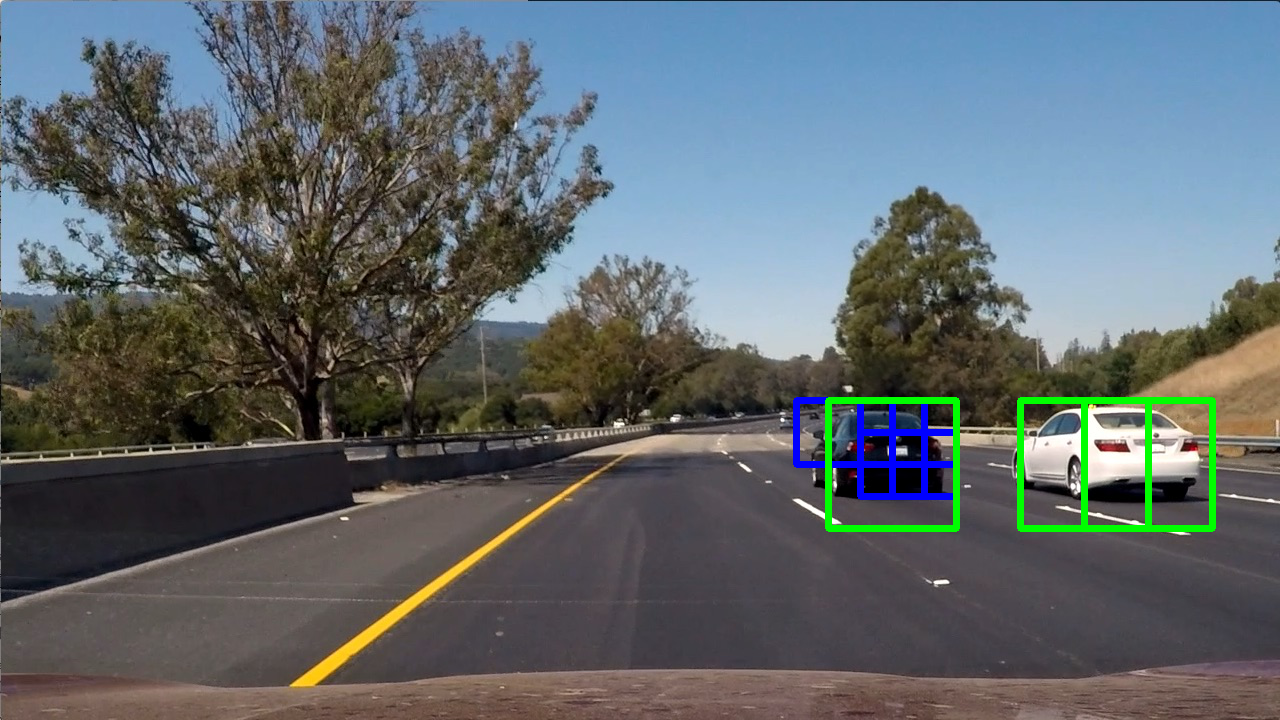
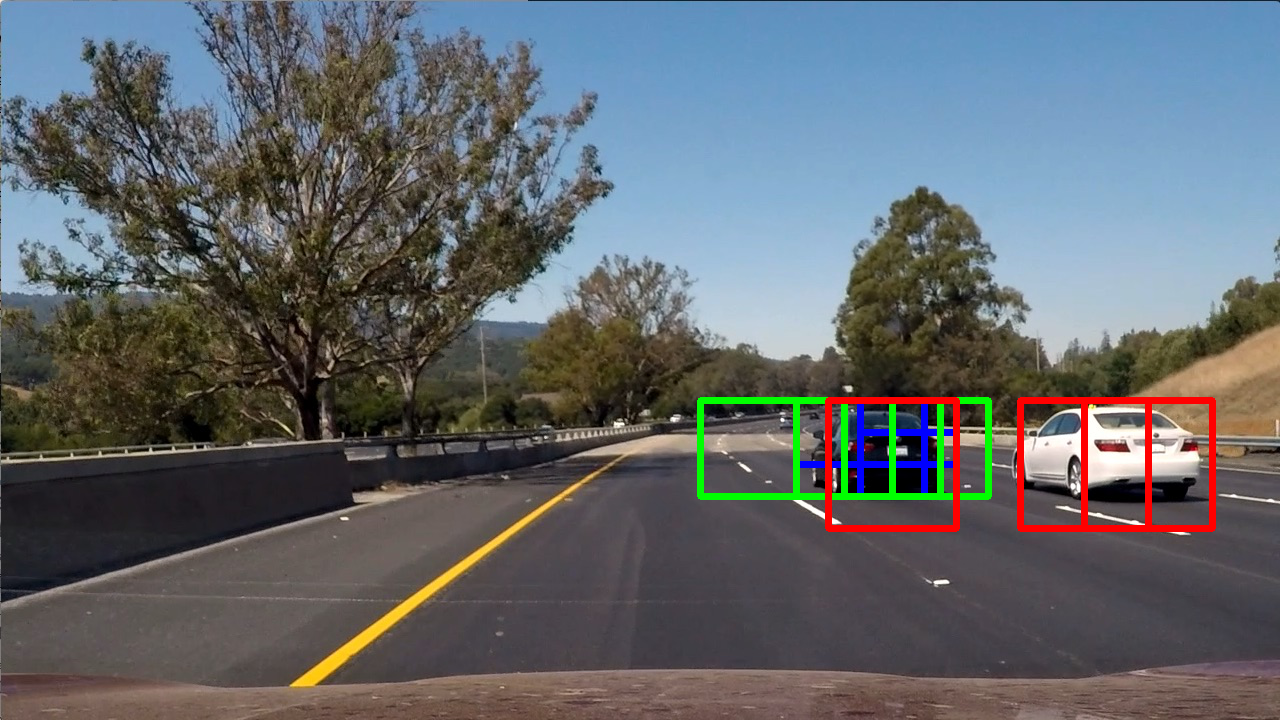
Flipping images and feature extraction problem

Changed region(s): [[0.5312, 0.55, 0.9688, 0.7639]]

diff --git a/Py/Proj5_VehicleDetection/Vehicle_Detection_Application/engine.py b/Py/Proj5_VehicleDetection/Vehicle_Detection_Application/engine.py
@@ -1,5 +1,15 @@
 from CameraCaliberator import *
 from trainSVMFromData import *
+import pickle
+from VDetectApp.FeatureExtractor.FeatureExtractor import FeatureExtractor
+from VDetectApp.SlidingWindowConfigurator.SlidingWindowConfigurator import SlidingWindowConfigurator
+import cv2
+import os, sys
+import matplotlib.image as mpimg
+import matplotlib.pyplot as plt
+from scipy.ndimage.measurements import label
+
+
 def add_heat(heatmap, windows):
     # Iterate through list of bboxes
     for window in windows:
@@ -40,6 +50,7 @@ def draw_boxes(img, bboxes, color=(0,0,255), thick=6):
 def detect_vehicle(isImage, file, root_folder, output_folder):
 	file_parts = file.split(".")
 	featureExtractor = FeatureExtractor(isImage, file, root_folder)
+	featureExtractor.image = featureExtractor.image[:,:,:3]
 	mpimg.imsave(output_folder + "/"+ file_parts[0] + "_original.png", featureExtractor.image);
 	
 	#featureExtractor.setImage(cc.undistort(featureExtractor.image))
@@ -63,12 +74,12 @@ def detect_vehicle(isImage, file, root_folder, output_folder):
 			windows.extend(tempWindows)
 			
 		on_windows = [];
-		#print(windows)
+		count = 0
 		for window in windows:
 			mpimg.imsave(output_folder + "/"+ file_parts[0] + "_before_resize.png", featureExtractor.image);
 			test_image = cv2.resize(featureExtractor.image[window[0][1]:window[1][1], window[0][0]:window[1][0]], (64, 64))
 			#print(test_image.shape)
-			mpimg.imsave(output_folder + "/"+ file_parts[0] + "_window.png", test_image);
+			mpimg.imsave(output_folder + "/"+ file_parts[0] + "_"+ str(index) + ".png", test_image);
 			
 			subFeatures = computePerImageFeatures(True, test_image, root_folder=None, y_start=None, y_stop=None, color_space='RGB', scale=1, orientations=9, pixels_per_cell=8, cells_per_block=2, feature_vec=False, concatenate_features=True)
 		
@@ -78,10 +89,12 @@ def detect_vehicle(isImage, file, root_folder, output_folder):
 				prediction = clf.predict(test_features);
 				if prediction == 1:
 					on_windows.append(window)	
+				print(count, window[0][1], window[1][1], window[0][0], window[1][0], prediction)
 			else:
 				print(scalar.mean_.shape[0])
 				print(subFeatures.shape[0])
-		
+			count+=1
+			
 		copied_image = draw_boxes(copied_image, on_windows, box_colors[index], thick=6)
 		all_windows.extend(on_windows)
 		print(len(all_windows))
@@ -134,6 +147,7 @@ def process_image(image):
 			test_image = cv2.resize(featureExtractor.image[window[0][1]:window[1][1], window[0][0]:window[1][0]], (64, 64))
 			
 			subFeatures = computePerImageFeatures(True, test_image, root_folder=None, y_start=None, y_stop=None, color_space='HLS', scale=1, orientations=9, pixels_per_cell=8, cells_per_block=2, feature_vec=False, concatenate_features=True)
+			subFeatures = subFeatures.astype('float64')
 		
 			if scalar.mean_.shape[0] == subFeatures.shape[0]:
 				test_features = scalar.transform(np.array(subFeatures).reshape(1,-1))
@@ -161,8 +175,14 @@ def process_image(image):
 	mpimg.imsave("sample_final_box.png" , another_copy_image);
 	return another_copy_image
 if __name__ == "__main__":
-	#pickle_file_name = trainSVMFromData();
-	import pickle
+	pickle_file_name = []
+	input_args = sys.argv
+	print(input_args)
+	if input_args[1] == "1": 
+		if input_args[2] == "1":
+			pickle_file_name = trainSVMFromData(True);
+		else:
+			pickle_file_name = trainSVMFromData(False);
 	pickle_file_name = "car_svc.p"
 	data = pickle.load(open(pickle_file_name, "rb"));
 	clf = data['Classifier'];
@@ -174,21 +194,12 @@ if __name__ == "__main__":
 	
 	x_start_stop=[700, 1296]
 	y_start_stop = [400, 600]
-	windows_sizes = [32, 64, 128];
+	windows_sizes = [96];
 	xy_overlaps = [0.5]
 	box_colors = [(0,0, 255), (0,255,0), (255,0,0), (0, 255, 255), (255, 255, 0),(255,0,255), (0, 128, 255)];
 	threshold = 4;
 	frame_count = 0
-	
-	
-	from VDetectApp.FeatureExtractor.FeatureExtractor import FeatureExtractor
-	from VDetectApp.SlidingWindowConfigurator.SlidingWindowConfigurator import SlidingWindowConfigurator
-	import cv2
-	import os, sys
-	import matplotlib.image as mpimg
-	import matplotlib.pyplot as plt
-	from scipy.ndimage.measurements import label
-	
+		
 	''''
 	from moviepy.editor import VideoFileClip
 	import imageio
@@ -215,6 +226,6 @@ if __name__ == "__main__":
 	output_folder = "test_images_output"
 	file_list = os.listdir(root_folder)
 	for file in file_list:
-		print(file)
-		detect_vehicle(False, file, root_folder, output_folder)
+		if file.endswith("3.jpg"):
+			detect_vehicle(False, file, root_folder, output_folder)
 	

diff --git a/Py/Proj5_VehicleDetection/Vehicle_Detection_Application/trainSVMFromData.py b/Py/Proj5_VehicleDetection/Vehicle_Detection_Application/trainSVMFromData.py
@@ -9,7 +9,23 @@ from sklearn.preprocessing import StandardScaler
 from sklearn.cross_validation import train_test_split
 from sklearn.metrics import accuracy_score
 import pickle
-def trainSVMFromData():
+import cv2
+import os
+def flip_image(full_file_name, isCar):
+	cv_image=cv2.imread(full_file_name)
+	flipped_image=cv_image.copy()	
+	flipped_image=cv2.flip(cv_image, 1)
+	file_parts = os.path.split(full_file_name)
+	file_name_parts = file_parts[1].split(".")
+	if isCar == True:
+		flipped_file_name = file_parts[0] + "/../../flipped_vehicles/" + file_name_parts[0] + "_flipped.png";
+	else:
+		flipped_file_name = file_parts[0] + "/../../flipped_non_vehicles/" + file_name_parts[0] + "_flipped.png";
+	print(flipped_file_name)
+	mpimg.imsave(flipped_file_name, flipped_image)
+	return flipped_file_name
+		
+def trainSVMFromData(generate_flipped_images=False):
 	############################################################
 	print('______________Step 1: Load data______________')
 	# SubModules are not automatically imported from root import 
@@ -30,16 +46,47 @@ def trainSVMFromData():
 	start_t = time.time();
 	car_features = [];
 	for car in car_images:
-		car_features.append(computePerImageFeatures(False, car, concatenate_features=True));
+		features = computePerImageFeatures(False, car, concatenate_features=True);
+		car_features.append(features[:, None])
+		if generate_flipped_images==True:
+			flipped_file_name = flip_image(car, True);
+			features = computePerImageFeatures(False, flipped_file_name, concatenate_features=True);
+			car_features.append(features[:, None])
+	
 		
 	non_car_features=[];
 	for non_car in non_car_images:
-		non_car_features.append(computePerImageFeatures(False, non_car, concatenate_features=True));
+		features = computePerImageFeatures(False, non_car, concatenate_features=True);
+		non_car_features.append(features[:, None]);
+		if generate_flipped_images == True:
+			flipped_file_name = flip_image(non_car, False);
+			features = computePerImageFeatures(False, flipped_file_name, concatenate_features=True);
+			non_car_features.append(features[:, None])
+
 	end_t = time.time();
 	print('Feature Extraction took '+ str(round(end_t-start_t, 2)) + ' seconds');
 	
 	############################################################
 	print('______________Step 3: Set up data for SVM______________')
+	print(len(car_features))
+	print(len(non_car_features))
+	a = car_features[0].shape
+	b = non_car_features[1].shape
+	
+	out_of_shape = [];
+	for idx in range(len(car_features)):
+		c = car_features[idx].shape 
+		if a != c: 
+			out_of_shape.append(idx)
+	
+	out_of_shape_non_car = []
+	for idx in range(len(non_car_features)):
+		c = non_car_features[idx].shape 
+		if b != c: 
+			out_of_shape_non_car.append(idx)
+	
+	print(car_images[out_of_shape[0]])
+	print(car_images[out_of_shape_non_car[0]])
 	X = np.vstack((car_features, non_car_features)).astype('float64')
 	
 	print('Step 3a: Data Preprocessing - Normalization to Standard Scaling')

diff --git a/Py/Proj5_VehicleDetection/Vehicle_Detection_Application/VDetectApp/computeFeatures.py b/Py/Proj5_VehicleDetection/Vehicle_Detection_Application/VDetectApp/computeFeatures.py
@@ -18,7 +18,7 @@ def computePerImageFeatures(isImage, file, root_folder=None, y_start=None, y_sto
 	featureExtractor.extractSpatialFeatures(spatial_size=(32,32))
 	
 	#print('#.5: Histogram Features');
-	#featureExtractor.extractHistogramFeatures(number_of_histogram_bins=32, bins_range=(0,256))	
+	featureExtractor.extractHistogramFeatures(number_of_histogram_bins=32, bins_range=(0,256))	
 	
 	#print('#.6: HOG features');
 	featureExtractor.extractHOGFeatures(hog_channel="ALL", orientations=orientations, pixels_per_cell=pixels_per_cell, cells_per_block=cells_per_block, visualise=False, feature_vec=feature_vec)
@@ -27,6 +27,8 @@ def computePerImageFeatures(isImage, file, root_folder=None, y_start=None, y_sto
 	if concatenate_features == True:
 	#	print('#.7: Concatenate all features');
 		concatenated_features = np.concatenate((featureExtractor.spatial_features, np.ravel(featureExtractor.hog_features)))	
+		print(len(featureExtractor.spatial_features), len(featureExtractor.histogram_features), len(featureExtractor.hog_features))
+		
 	else:
 		concatenated_features={'spatial_features': featureExtractor.spatial_features, 'histogram_features': featureExtractor.histogram_features, 'HOG_features': featureExtractor.hog_features};
 	return concatenated_features

diff --git a/Py/Proj5_VehicleDetection/Vehicle_Detection_Application/VDetectApp/DataUtils/DataLoader.py b/Py/Proj5_VehicleDetection/Vehicle_Detection_Application/VDetectApp/DataUtils/DataLoader.py
@@ -4,10 +4,12 @@ class DataLoader:
 	def __init__(self, baseFolder=[None]):
 		self.rootdir = baseFolder;
 	def loadData(self):
-		car_images_regex = "./data/vehicles/*/*.png";
+		car_images_regex = "./data/sample_vehicles/*/*.png";
 		car_images = glob.glob(car_images_regex);
 		self.car_images = car_images;
+		print(car_images)
 		
-		non_car_images_regex = "./data/non-vehicles/*/*.png"
+		non_car_images_regex = "./data/sample_non-vehicles/*/*.png"
 		non_car_images = glob.glob(non_car_images_regex)
 		self.non_car_images = non_car_images;
+		print(non_car_images)

diff --git a/Py/Proj5_VehicleDetection/Vehicle_Detection_Application/sample_flip_image.py b/Py/Proj5_VehicleDetection/Vehicle_Detection_Application/sample_flip_image.py
@@ -1,0 +1,14 @@
+import matplotlib.image as mpimg
+import cv2
+import os
+car = "test_image.png"
+cv_image=cv2.imread(car)
+flipped_image=cv_image.copy()	
+flipped_image=cv2.flip(cv_image, 1)
+file_parts = os.path.split(car)
+file_name_parts = file_parts[1].split(".")
+flipped_file_name = file_parts[0] + "_" + file_name_parts[0] + "_flipped.png";
+mpimg.imsave(flipped_file_name, flipped_image)
+
+print(cv_image.shape)
+print(flipped_image.shape)

diff --git a/Py/Proj5_VehicleDetection/Vehicle_Detection_Application/VDetectApp/FeatureExtractor/FeatureExtractor.py b/Py/Proj5_VehicleDetection/Vehicle_Detection_Application/VDetectApp/FeatureExtractor/FeatureExtractor.py
@@ -12,6 +12,7 @@ class FeatureExtractor:
 				sequence = (root_folder, image_file)
 				fileFullPath = s.join(sequence)
 				self.image = mpimg.imread(fileFullPath)
+				self.image = self.image[:,:,:3]
 				#self.image = self.image.astype(np.float32)/255.0
 			else:
 				self.image = mpimg.imread(image_file);
